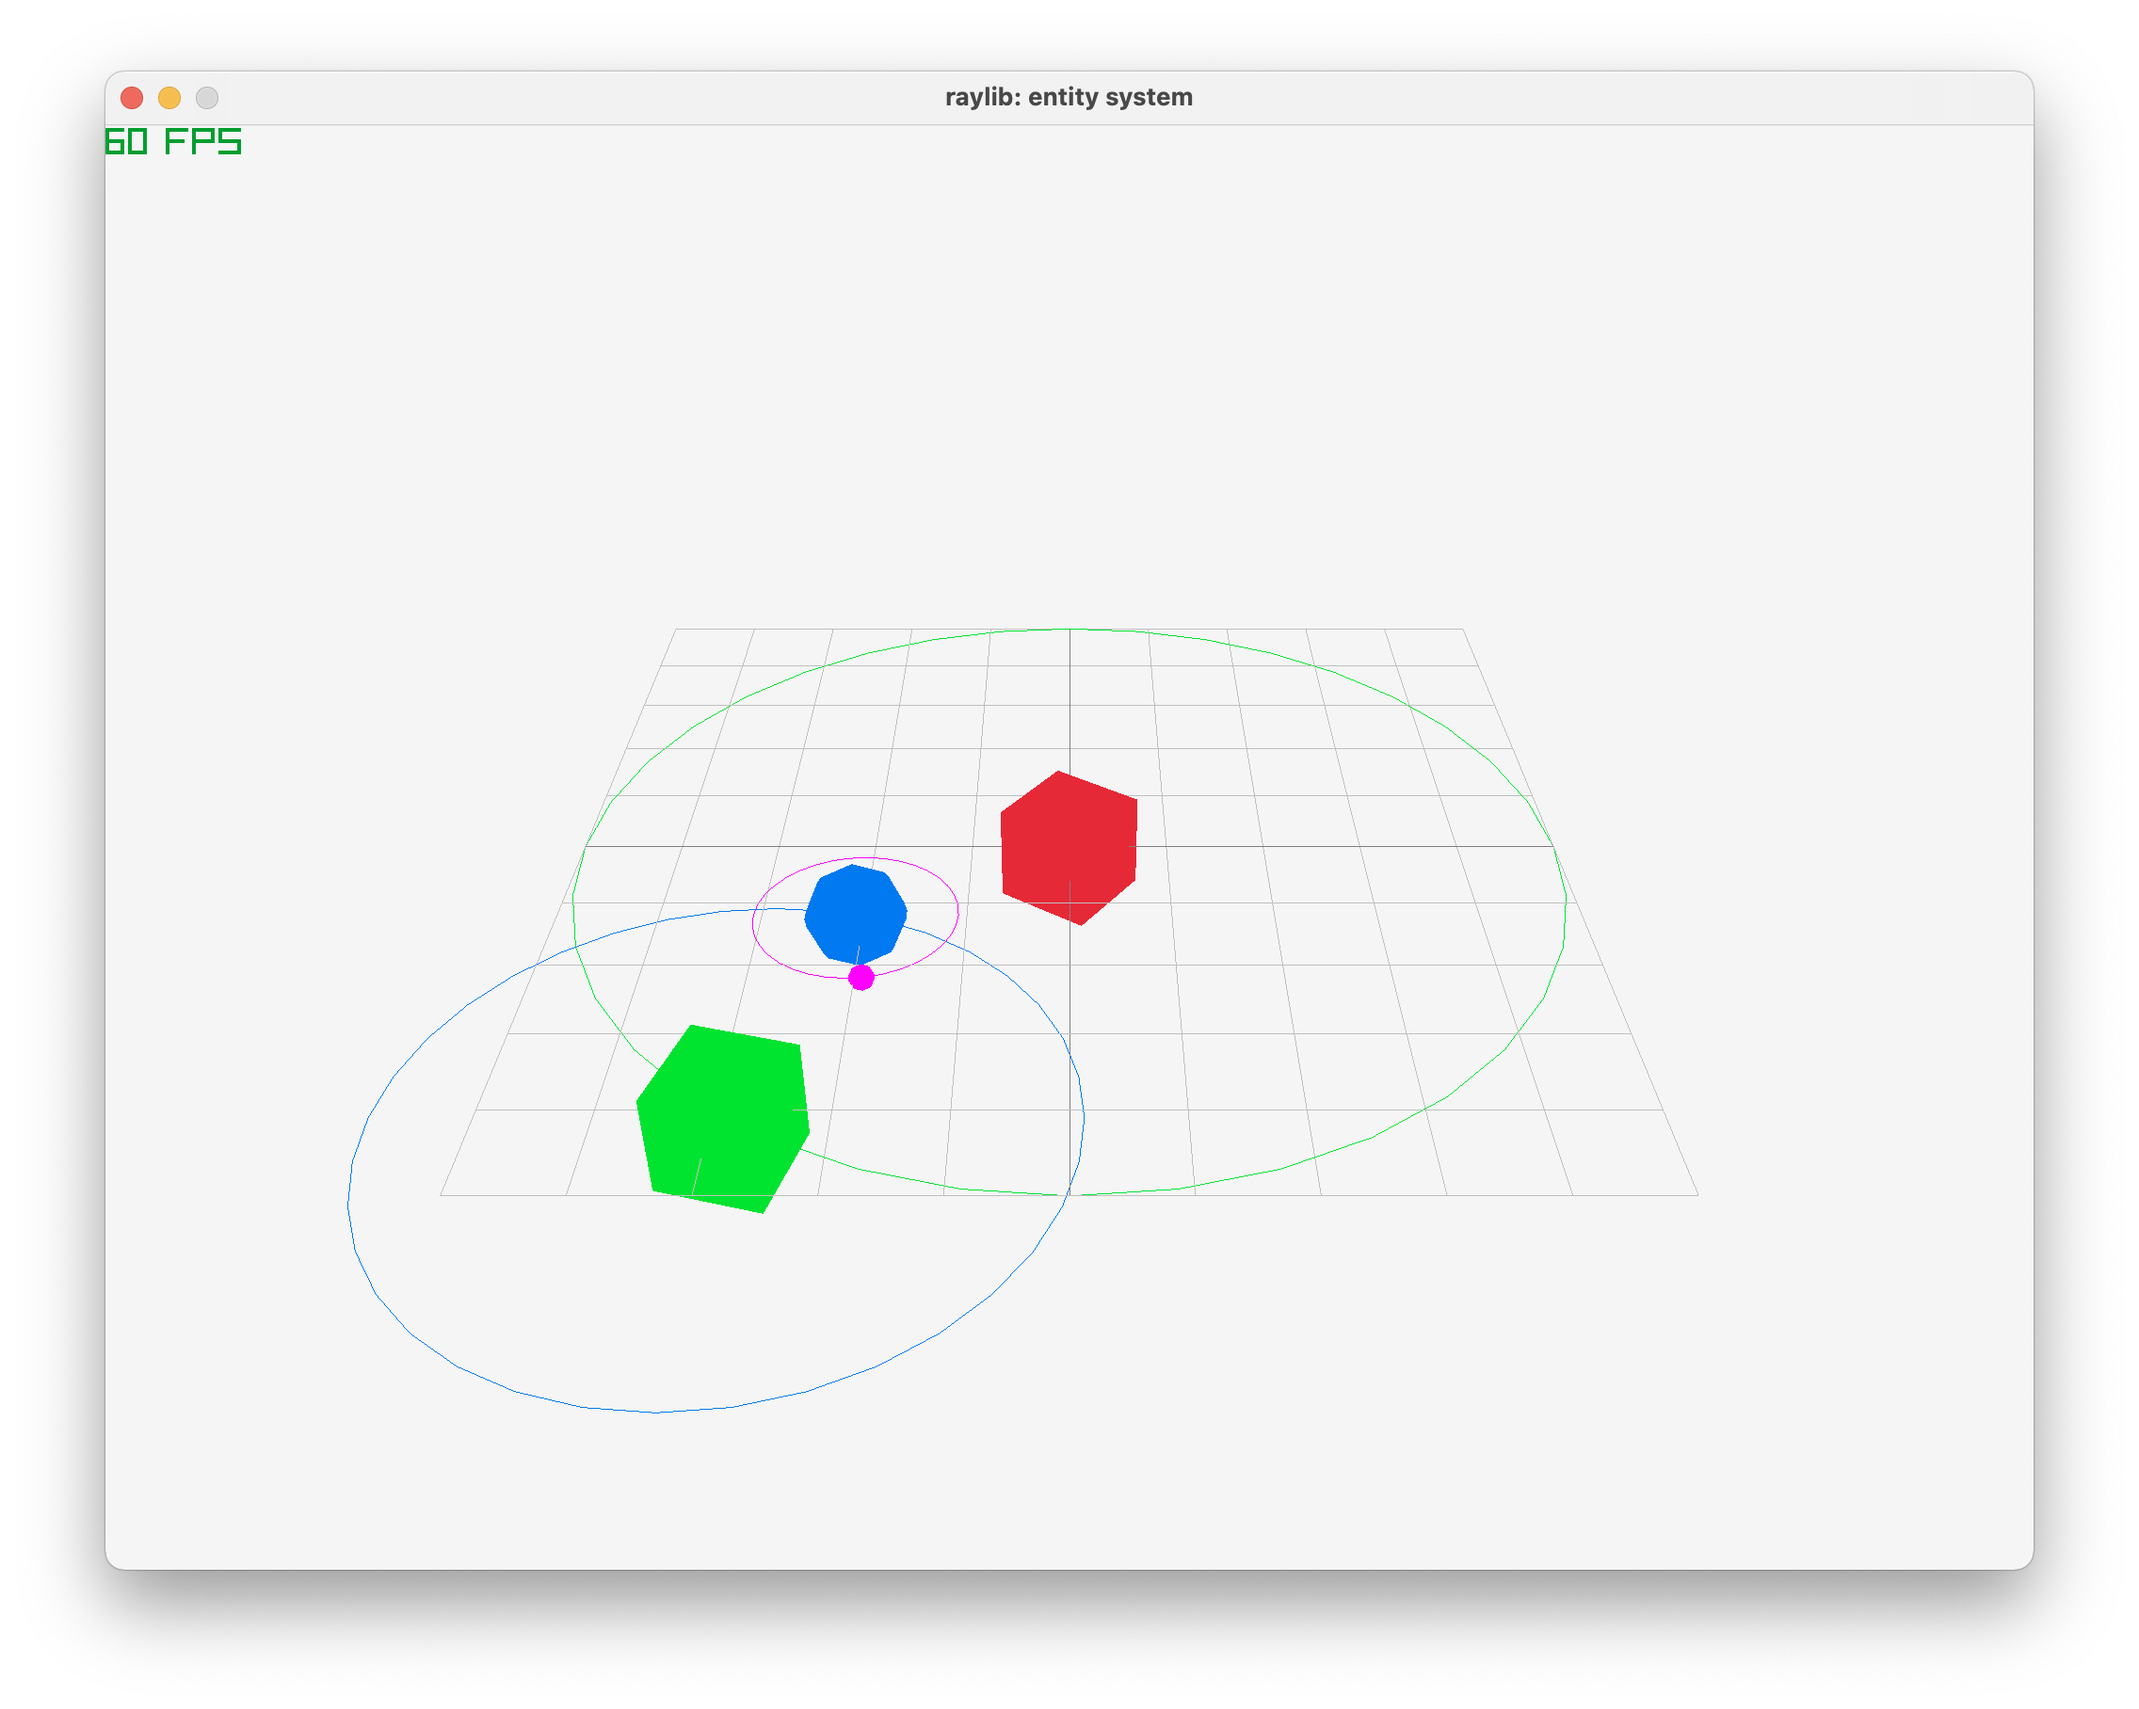
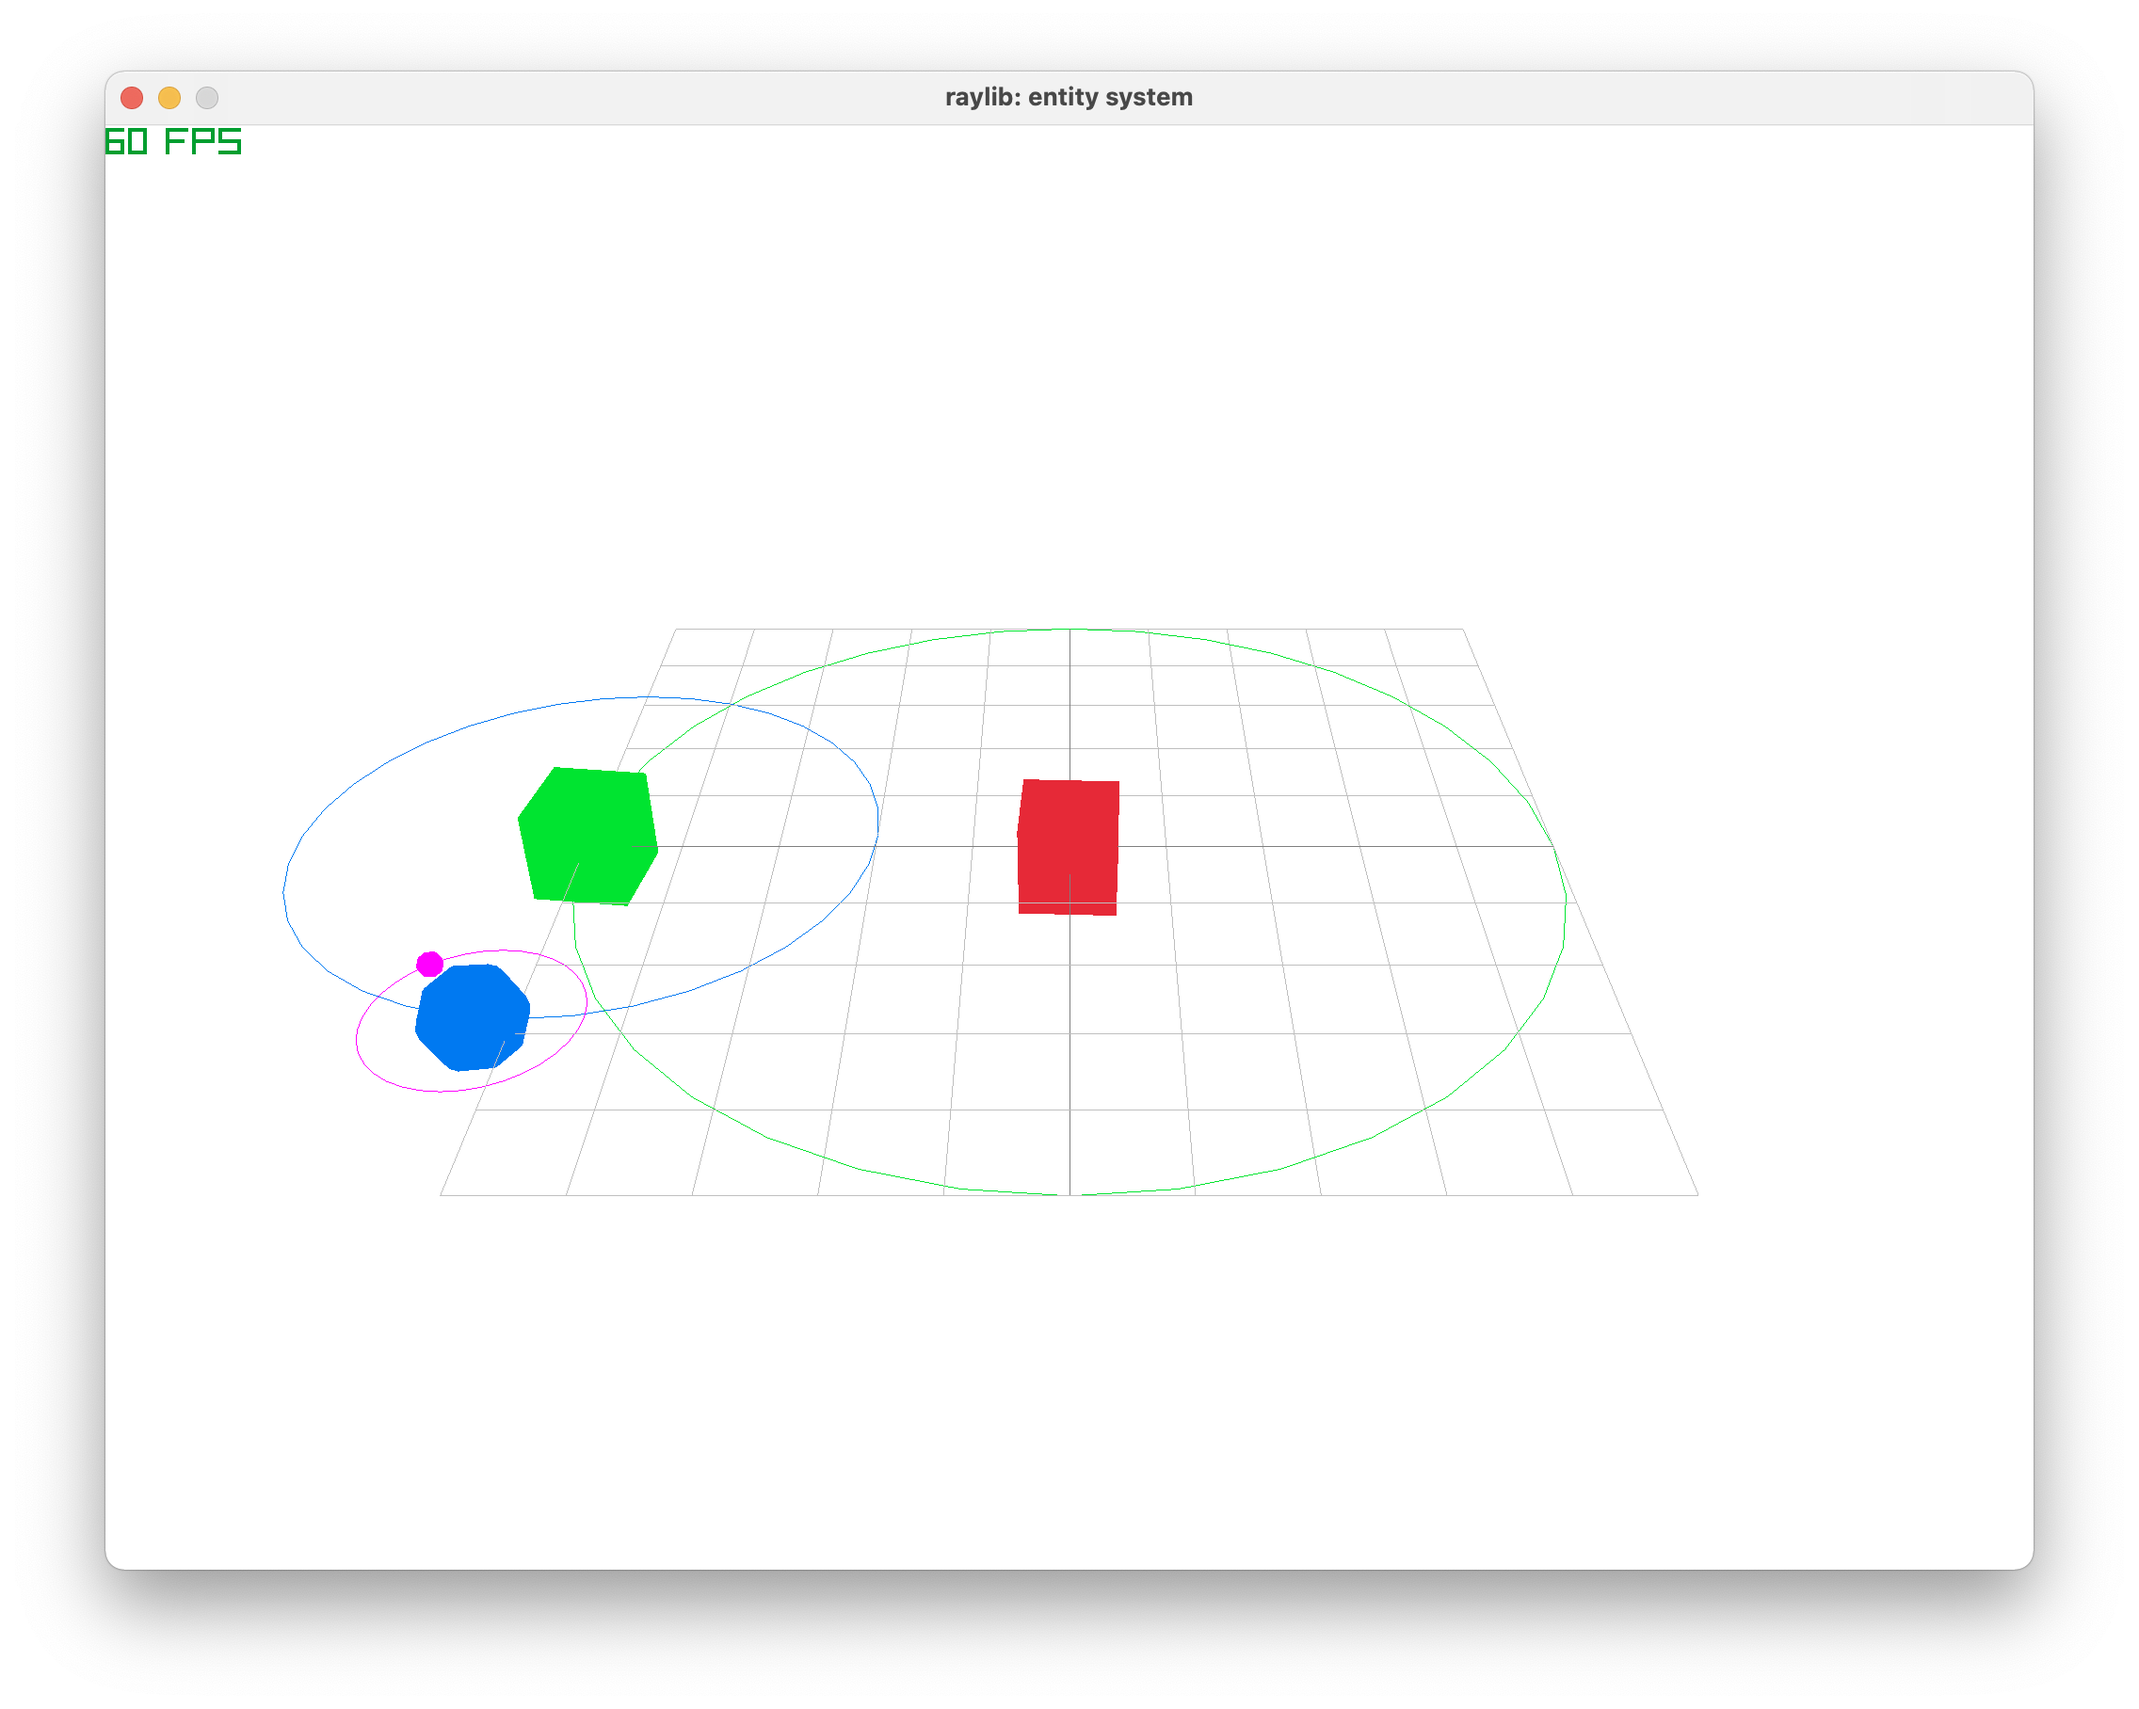
Reupdated README

diff --git a/raylib/entity-system/entity.c b/raylib/entity-system/entity.c
@@ -448,7 +448,7 @@ void UpdateDrawFrame(void)
     //--------------------------------------
     BeginDrawing();
 
-        ClearBackground(RAYWHITE);
+        ClearBackground(WHITE);
 
         BeginMode3D(camera);
             DrawEntityModel(center, cube, RED);
